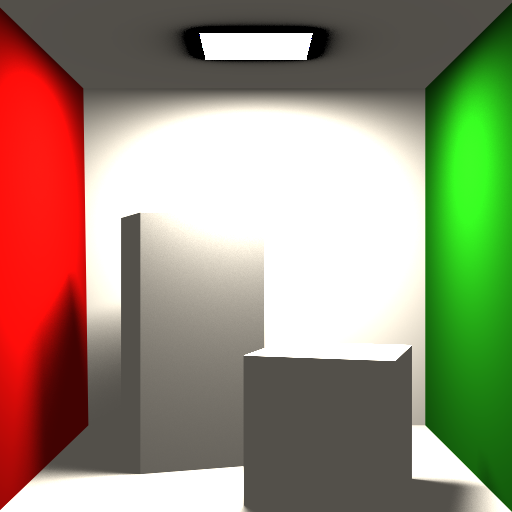
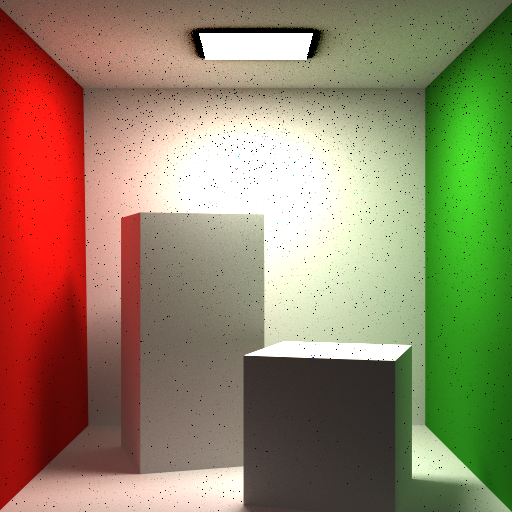
fixes indirect illumination #9 -- thanks delainey!

diff --git a/src/apps/04_pathtrace.cpp b/src/apps/04_pathtrace.cpp
@@ -213,11 +213,12 @@ vec3f pathtrace_ray(Scene* scene, ray3f ray, Rng* rng, int depth) {
         auto brdf = sample_brdf(kd, ks, n, v, norm, rng->next_vec2f(), rng->next_float());
         // auto text = eval_env(scene->background, scene->background_txt, brdf.first);
         
+        ray3f ray2 = ray3f(pos,brdf.first);
         // compute the material response (brdf*cos)
         auto brdfcos = max(dot(norm,brdf.first),0.0f) * eval_brdf(kd, ks, n, v, brdf.first, norm, mf);
 
         // accumulate recersively scaled by brdf*cos/pdf
-        c += brdfcos * pathtrace_ray(scene, ray, rng, depth+1)/ brdf.second;
+        c += brdfcos * pathtrace_ray(scene, ray2, rng, depth+1)/ brdf.second;
         //c += shade;
         
     }
